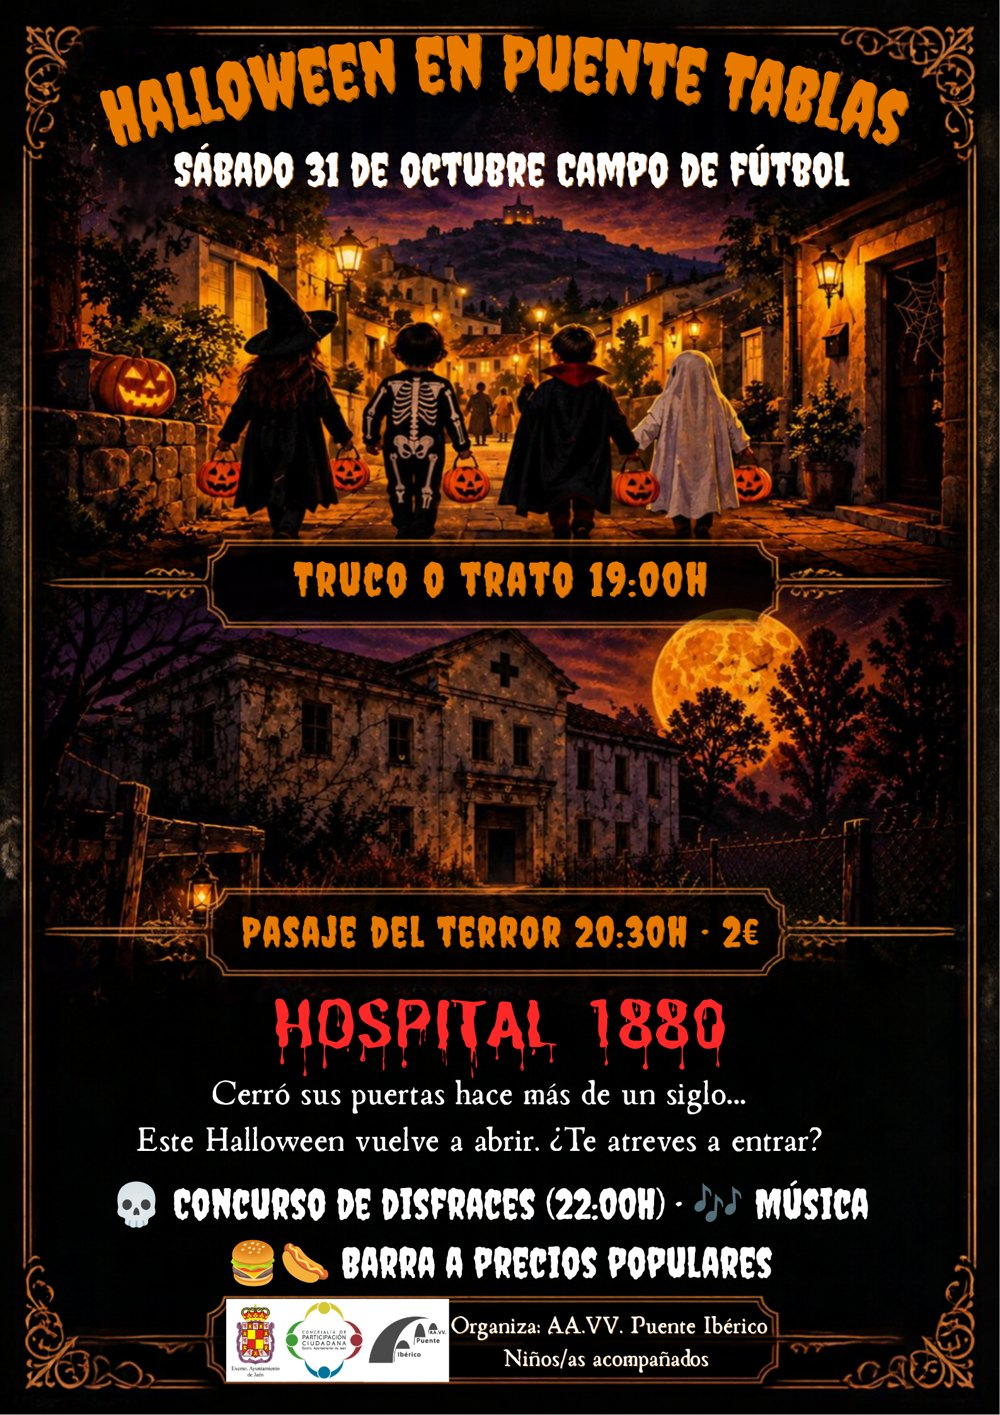
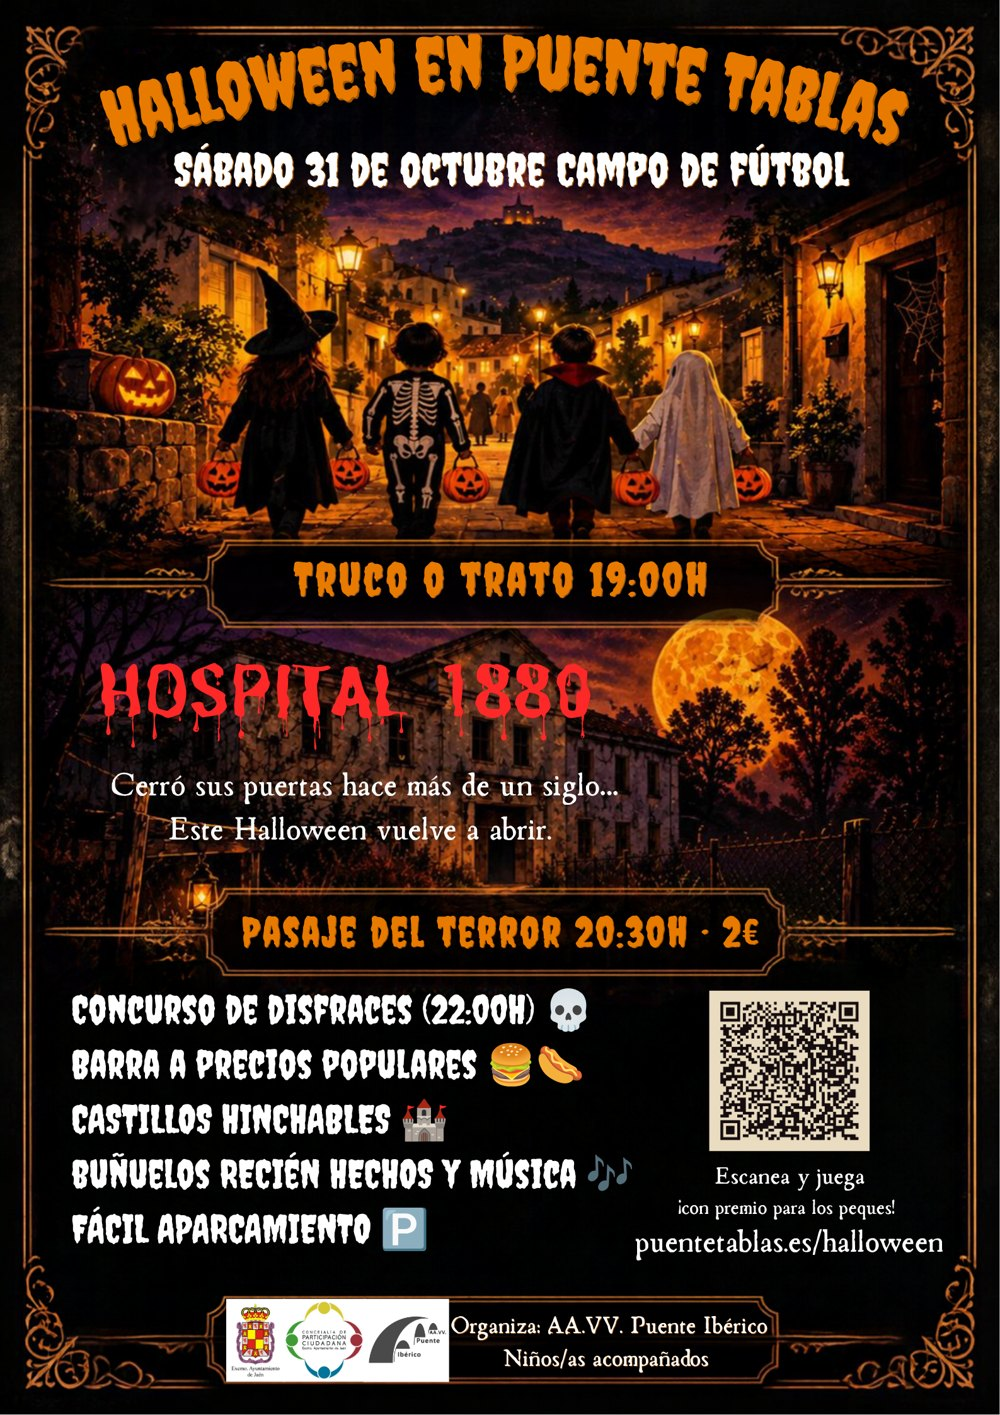
Web: cartel nuevo con castillos hinchables y buñuelos
Claude-Session: https://claude.ai/code/session_01LSAUrpy3CBcP29MMaUBuDy

Changed region(s): [[0.062, 0.6841, 0.93, 0.9329], [0.093, 0.4664, 0.589, 0.5908]]

diff --git a/halloween/index.html b/halloween/index.html
@@ -316,7 +316,7 @@ footer img { width: 260px; max-width: 100%; height: auto; background: #fff; bord
 <!-- ===================== CARTEL ===================== -->
 <section id="cartel">
   <div class="envoltura cartel">
-    <img src="img/cartel.jpg" width="1000" height="1415" alt="Cartel de Halloween en Puente Tablas: truco o trato a las 19:00h, Pasaje del Terror Hospital 1880 a las 20:30h por 2 euros, concurso de disfraces a las 22:00h, música y barra. Sábado 31 de octubre, Campo de Fútbol.">
+    <img src="img/cartel.jpg" width="1000" height="1415" alt="Cartel de Halloween en Puente Tablas, sábado 31 de octubre en el Campo de Fútbol: truco o trato a las 19:00h, Pasaje del Terror Hospital 1880 a las 20:30h por 2 euros, concurso de disfraces a las 22:00h, barra a precios populares, castillos hinchables, buñuelos recién hechos, música y fácil aparcamiento. Con código QR al minijuego.">
     <div>
       <p class="rotulo">El cartel</p>
       <h2>Compártelo con tus vecinos</h2>
